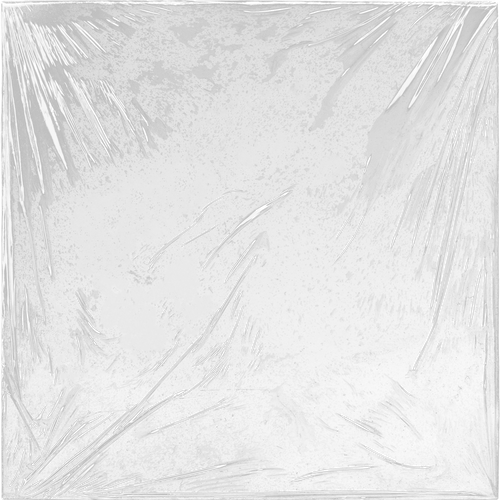
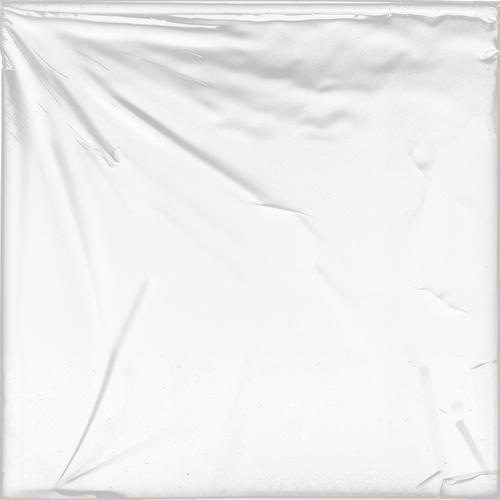
more plastic

diff --git a/src/scene/plasticOverlay.ts b/src/scene/plasticOverlay.ts
@@ -10,6 +10,8 @@ const PLASTIC_TEXTURES = [
   "plastic3.png",
   "plastic4.png",
   "plastic5.png",
+  "plastic6.png",
+  "plastic7.png",
 ];
 
 // Rotation options for variation (degrees)
